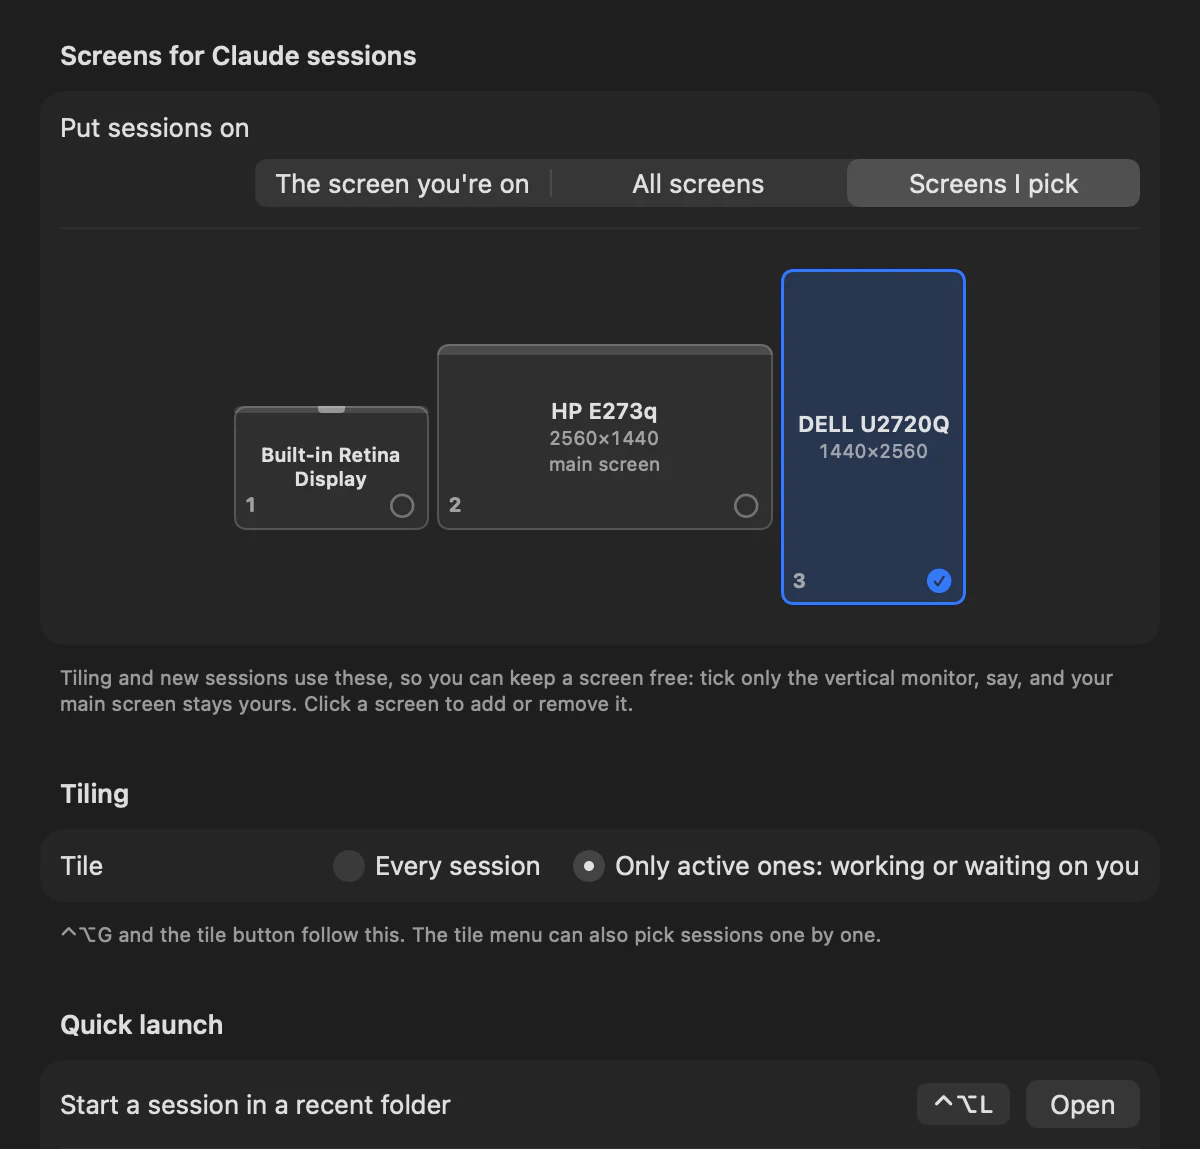
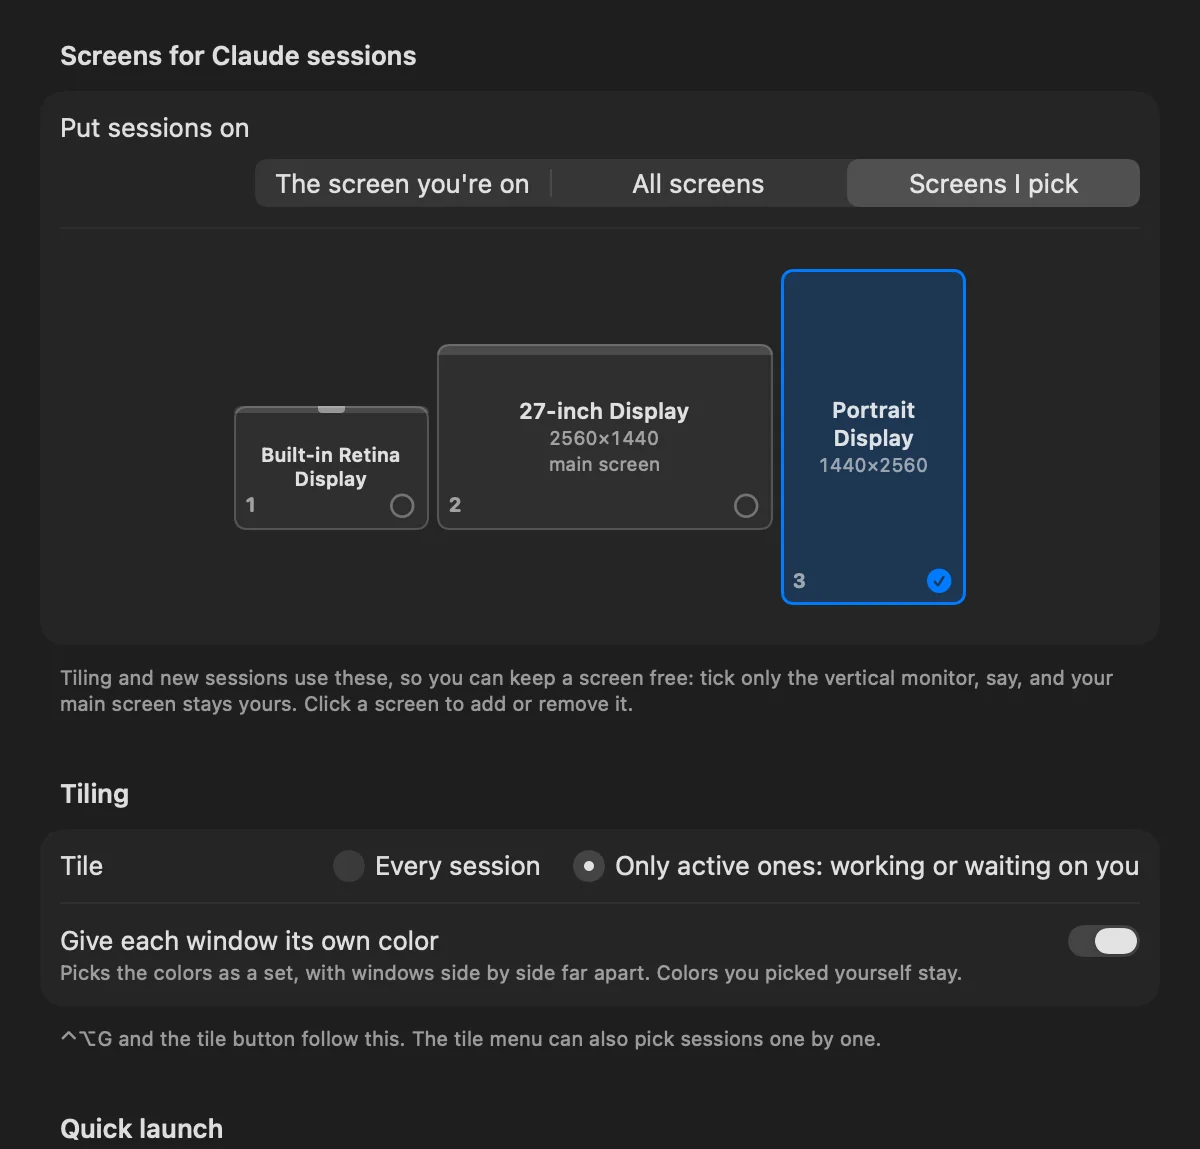
site: the tile picker and Settings › Windows renders get the generic display names
7036fee renamed the demo displays and re-rendered the screens map, but these two site
images were still older renders with the previous display names. Both are re-rendered
from `TabbyIsland --snapshot` (the Settings pane cropped like the rest of the gallery,
which now also shows the "own color" row) and their cache keys are bumped.

Claude-Session: https://claude.ai/code/session_013TD5NvHsWztGhAmAkbEGfw

diff --git a/site/index.html b/site/index.html
@@ -377,7 +377,7 @@
         <p>Choose which screens get sessions: the one you're on, all of them, or the ones you pick. Tick only your vertical monitor, and your main screen stays yours.</p>
       </li>
       <li class="card reveal" style="--i:1">
-        <div class="card-shot shot-picker"><img src="/assets/ui/tile-picker.webp?v=20261002a" alt="Tile which sessions? A list with checkboxes, Active 2, All 4 and None buttons, and a Tile 2 Sessions button" width="840" height="796" loading="lazy" decoding="async"></div>
+        <div class="card-shot shot-picker"><img src="/assets/ui/tile-picker.webp?v=20261012a" alt="Tile which sessions? A list with checkboxes, Active 2, All 4 and None buttons, and a Tile 2 Sessions button" width="840" height="796" loading="lazy" decoding="async"></div>
         <h3>Or pick the sessions.</h3>
         <p>Active ones, all of them, or checkboxes. <code>tabby tile --active</code> does the same from a terminal.</p>
       </li>
@@ -532,7 +532,7 @@
         <img data-pane="general" class="is-on" src="/assets/ui/settings-general.webp?v=20261002a" alt="Settings › General: show the island, detail level, announcements, open at login, updates, and the theme, tint and marker for tabs" width="1200" height="1149" loading="lazy" decoding="async">
         <img data-pane="watermark" src="/assets/ui/settings-watermark.webp?v=20261002a" alt="Settings › Watermark: a preview, then strength, size, color and position" width="1200" height="1149" loading="lazy" decoding="async">
         <img data-pane="focus" src="/assets/ui/settings-focus.webp?v=20261005a" alt="Settings › Focus: Focus mode with a preview, a box to stay covered when it's your turn, and when a window opens again" width="1200" height="1149" loading="lazy" decoding="async">
-        <img data-pane="windows" src="/assets/ui/settings-windows.webp?v=20261002a" alt="Settings › Windows: which screens get sessions, how tiling picks sessions, and quick launch" width="1200" height="1149" loading="lazy" decoding="async">
+        <img data-pane="windows" src="/assets/ui/settings-windows.webp?v=20261012a" alt="Settings › Windows: which screens get sessions, how tiling picks sessions, and quick launch" width="1200" height="1149" loading="lazy" decoding="async">
         <img data-pane="shortcuts" src="/assets/ui/settings-shortcuts.webp?v=20261002a" alt="Settings › Shortcuts: every global shortcut, each one changeable, and the keys that work inside the island" width="1200" height="1149" loading="lazy" decoding="async">
         <img data-pane="permissions" src="/assets/ui/settings-permissions.webp?v=20261002a" alt="Settings › Permissions: Accessibility allowed, Control Terminal, Control iTerm2 and Control System Events checked live, with Allow buttons" width="1200" height="1149" loading="lazy" decoding="async">
       </div>
